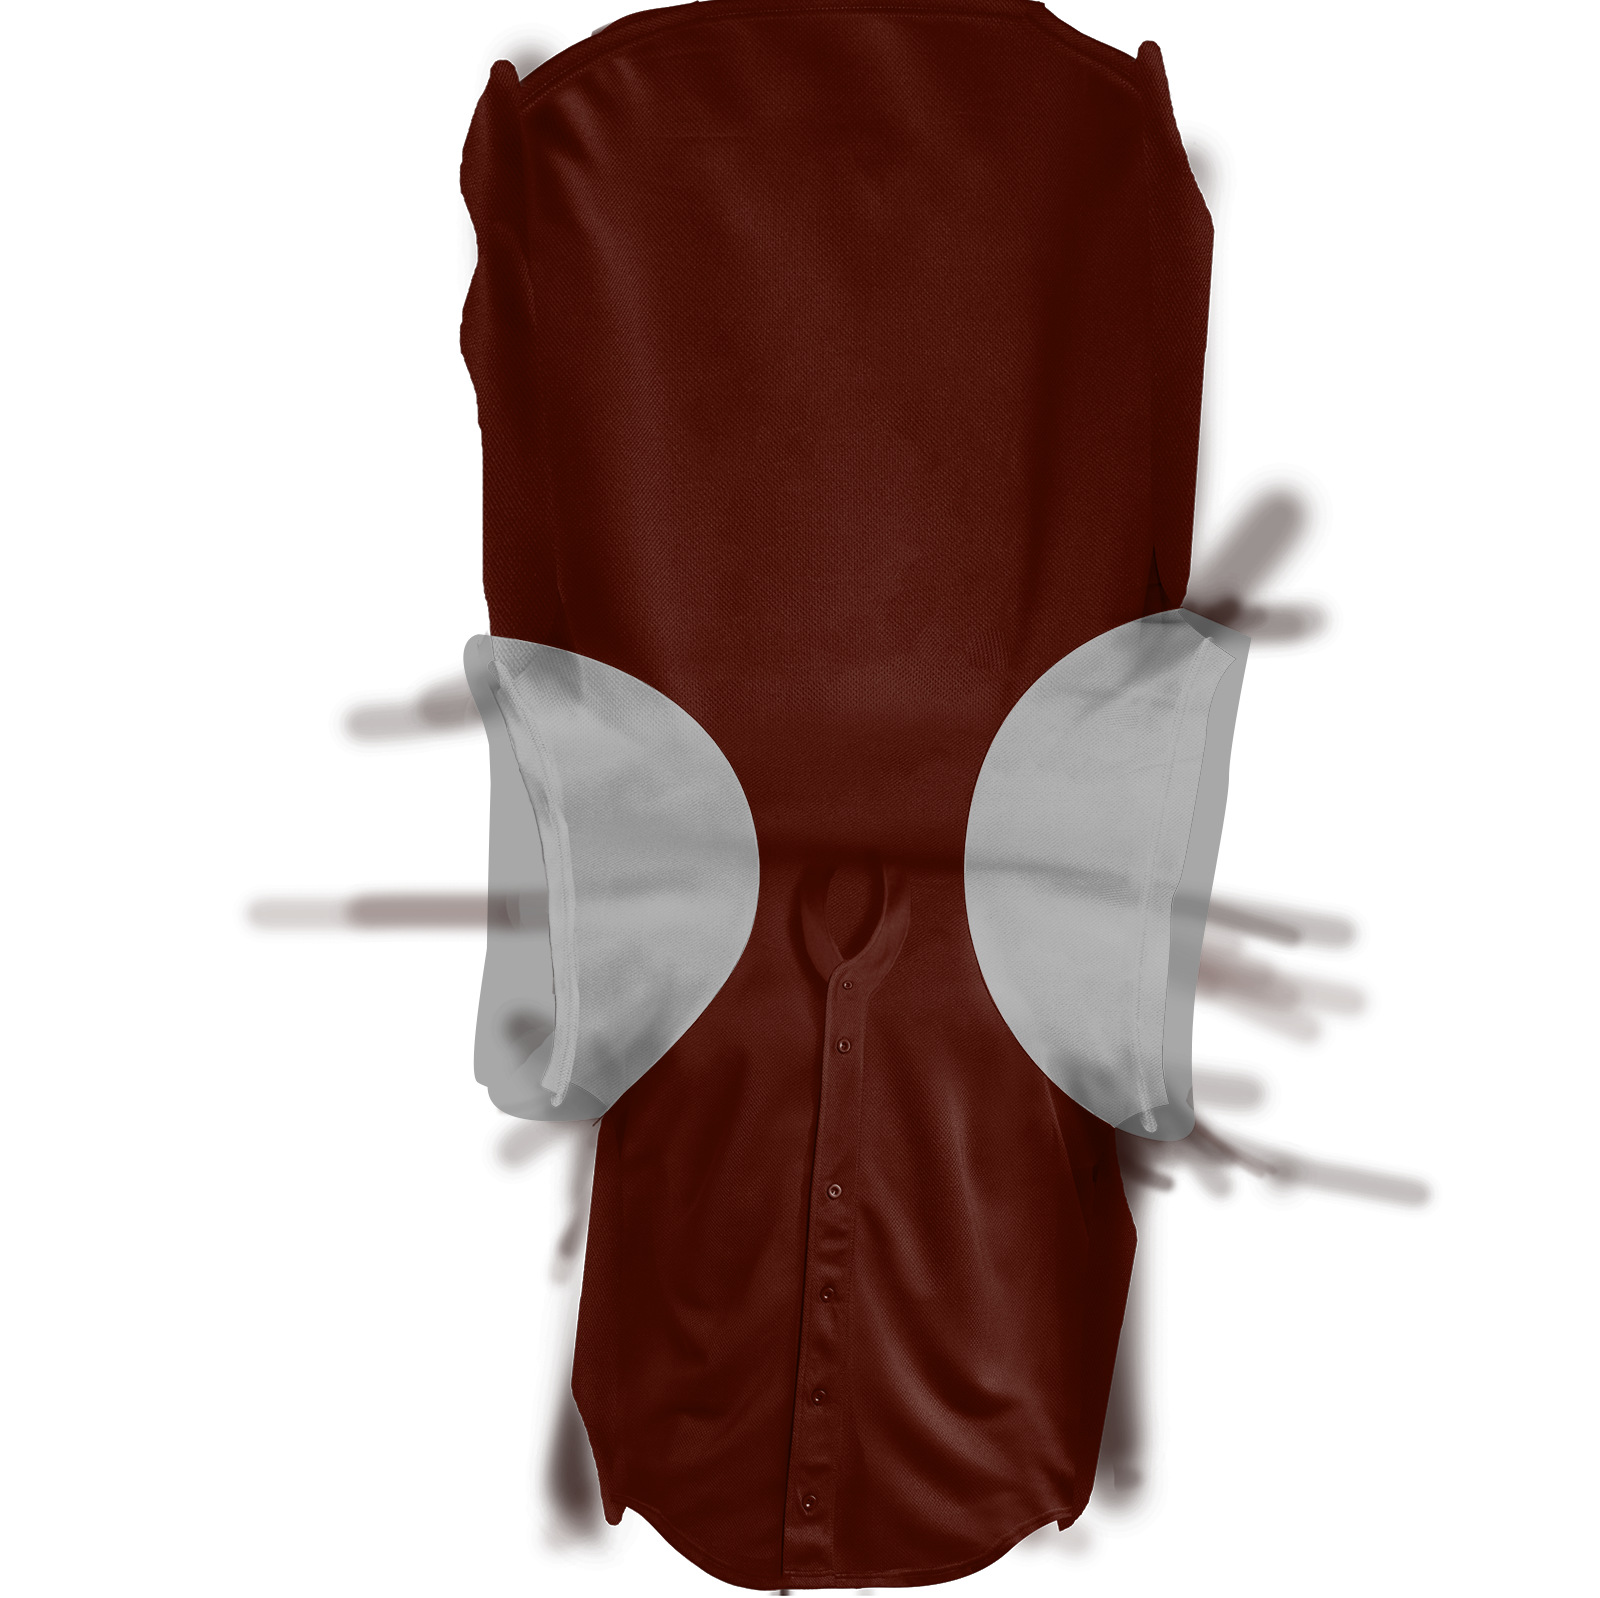
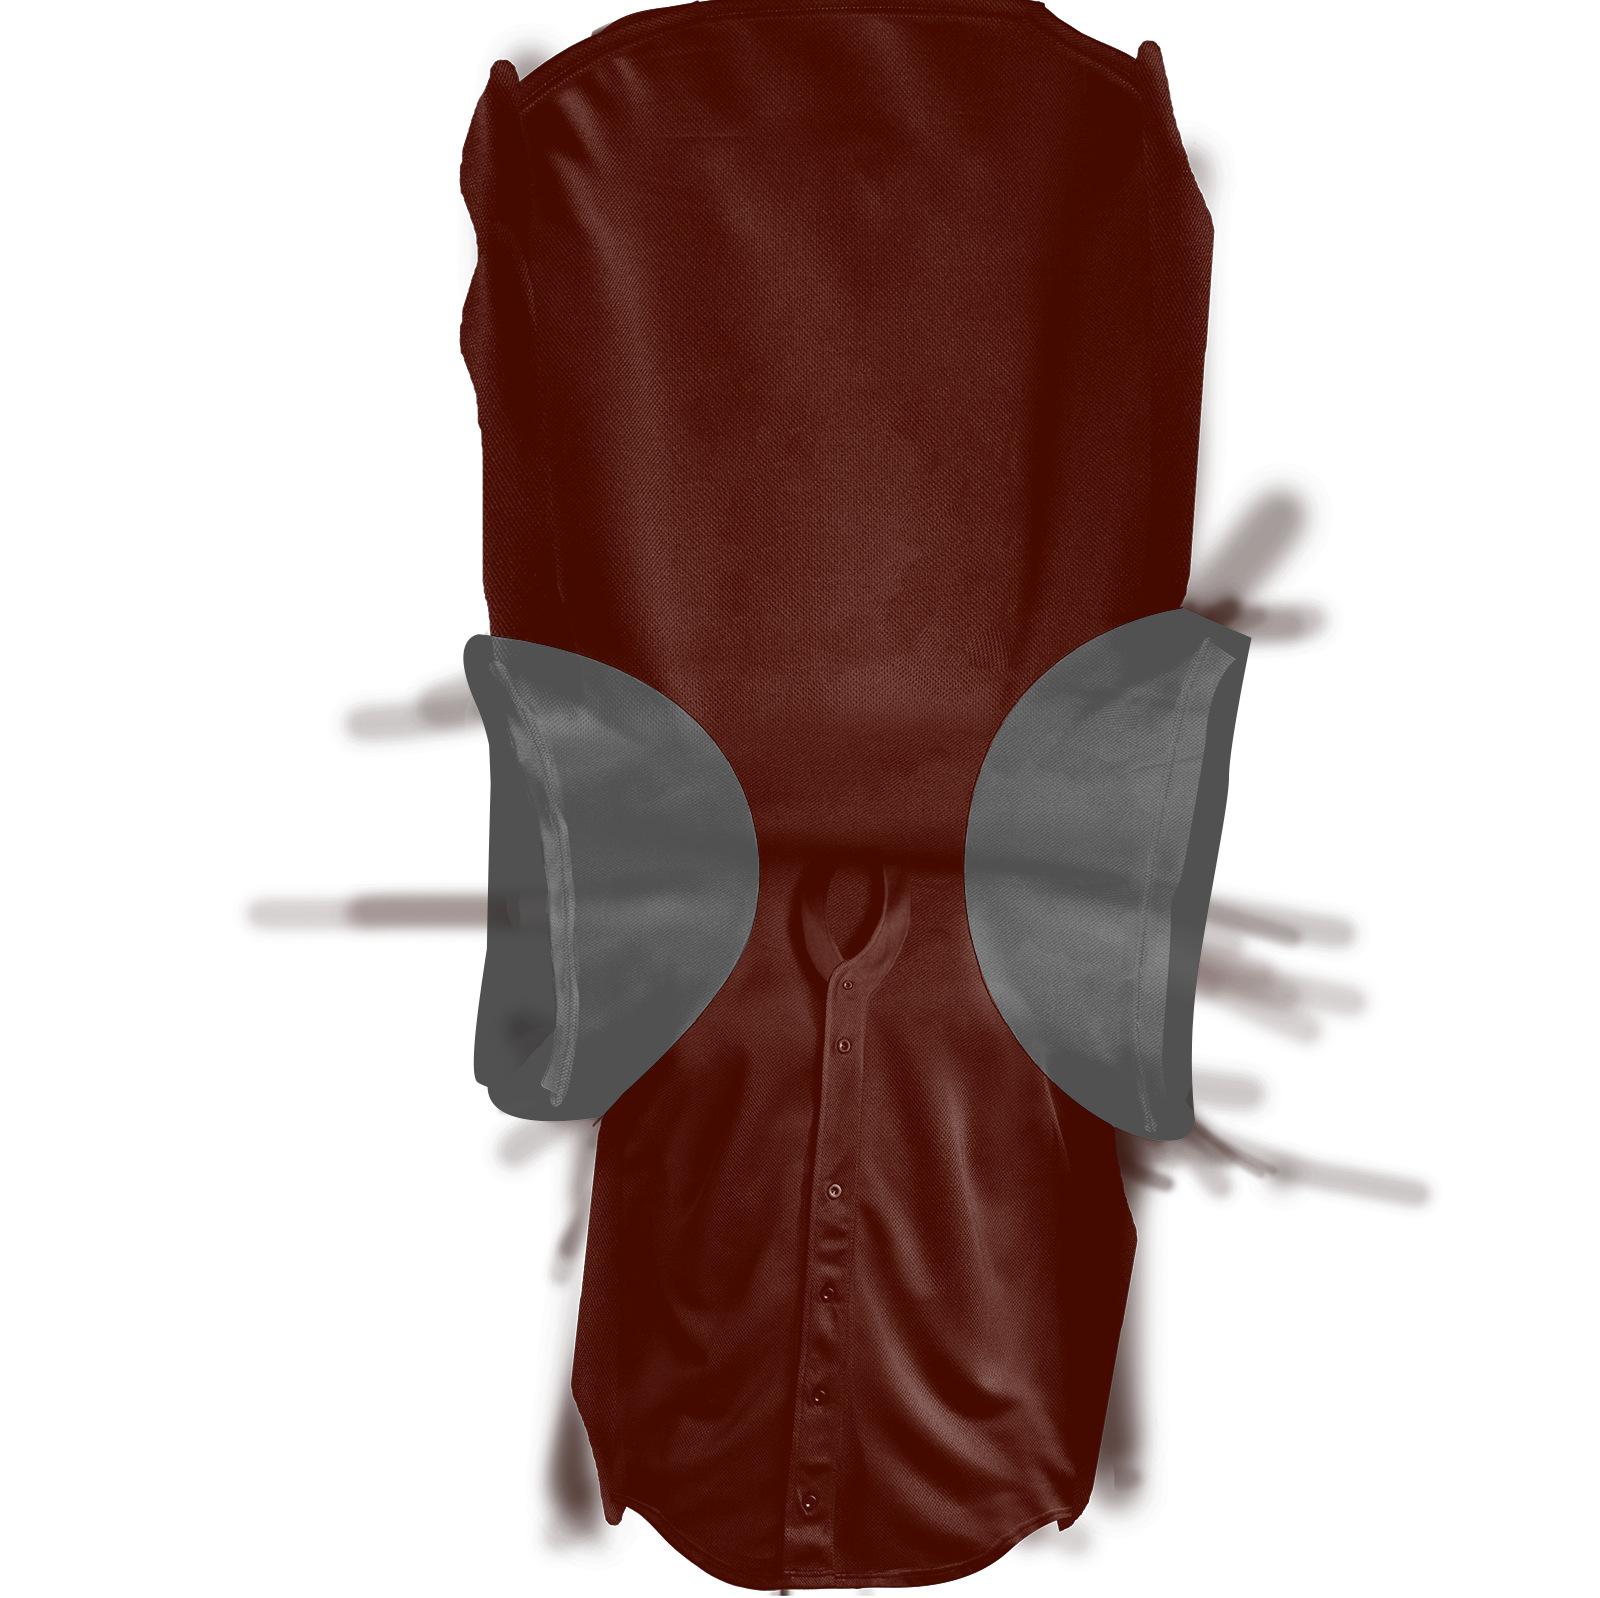
Cherry picked 9139066

diff --git a/public/js/texture_canvas.js b/public/js/texture_canvas.js
@@ -92,6 +92,7 @@
 
 			/// New With Path Group
 
+
 			var canvas = texture_canvas.canvas;
 			group = [];	       
 
@@ -102,9 +103,9 @@
 
 	            var loadedObjects = fabric.util.groupSVGElements(objects, options);
 
-	            console.log("Loaded Objects: ");
-	            console.log(loadedObjects);
-	            
+	            window.texture_canvas.objects[object_name] = loadedObjects;
+
+
 	            window.temp = loadedObjects;
 
 	            loadedObjects.set({
@@ -113,14 +114,12 @@
 	                top: 0,
 					lockMovementX: true,
 					lockMovementY: true,
-					scaleX: 3,
-					scaleY: 3,
+					opacity: 0.7,
 
 	            });
 
-				texture_canvas.refresh_model();
-
-			 	texture_canvas.canvas.remove(texture_canvas.objects[object_name]);
+	            loadedObjects.scaleX = 3;
+				loadedObjects.scaleY = 3;
 	            texture_canvas.canvas.add(loadedObjects);
 	            texture_canvas.canvas.renderAll();
 
@@ -190,6 +189,8 @@
 
 			});
 
+
+
 		}
 
 		texture_canvas.change_color = function (obj,color_value){
@@ -251,7 +252,6 @@
 			}
 
 			canvas = window.texture_canvas.canvas;
-			selectedObject.applyFilters(canvas.renderAll.bind(canvas));
 
 			setTimeout(function(){
 
@@ -260,6 +260,44 @@
 			}, 50);
 
 		}
+
+		texture_canvas.path_change_color = function (obj,color_value,layer){
+
+
+				texture_canvas.objects.jersey_rect.opacity = 0.0;
+				texture_canvas.objects.base.opacity = 0.0;
+
+				texture_canvas.objects.jersey_rect.fill = color_value;
+
+
+				texture_canvas.objects.c_1.opacity = 0.7;
+				texture_canvas.objects.c_2.opacity = 0.7;
+				texture_canvas.objects.c_3.opacity = 0.7;
+				texture_canvas.objects.c_4.opacity = 0.7;
+
+			selectedObject = window.texture_canvas.objects[layer];
+
+			for(i = 0; i <= selectedObject.paths.length -1; i++){
+
+
+				path = selectedObject.paths[i];
+				console.log(path);
+
+				path.setFill(color_value);
+
+			}
+
+			canvas = window.texture_canvas.canvas;
+			canvas.renderAll.bind(canvas);
+
+			setTimeout(function(){
+
+					texture_canvas.refresh_model();
+
+			}, 50);
+
+		}
+
 
 		/// End Methods
 
@@ -277,10 +315,64 @@
 		// texture_canvas.change_texture_svg('c_1', 'camouflage.svg');
 
 
-		texture_canvas.change_texture_svg('c_1', 'c_1.svg');
-		texture_canvas.change_texture_svg('c_2', 'c_2.svg');
-		texture_canvas.change_texture_svg('c_3', 'c_3.svg');
-		texture_canvas.change_texture_svg('c_4', 'c_4.svg');
+		// texture_canvas.change_texture_svg('c_1', 'c_1.svg');
+		// texture_canvas.change_texture_svg('c_2', 'c_2.svg');
+		// texture_canvas.change_texture_svg('c_3', 'c_3.svg');
+		// texture_canvas.change_texture_svg('c_4', 'c_4.svg');
+		// texture_canvas.change_texture('shadows', 'shadows.png');
+
+
+		$rect = new fabric.Rect({
+			  
+			        top: 0,
+			        left: 0,
+			        width: 1600,
+			        height: 1598,
+			        angle: 0,
+			        fill: '#ffffff',
+			        opacity: 0,
+
+		});
+
+		window.texture_canvas.canvas.add($rect);
+
+		texture_canvas.objects['jersey_rect'] = $rect;
+
+
+
+		setTimeout(function(){
+			texture_canvas.change_texture_svg('c_1', 'c_1.svg');
+		}, 50);
+
+		setTimeout(function(){
+			texture_canvas.change_texture_svg('c_2', 'c_2.svg');
+		}, 150);
+
+		setTimeout(function(){
+			texture_canvas.change_texture_svg('c_3', 'c_3.svg');
+		}, 200);
+
+		setTimeout(function(){		
+			texture_canvas.change_texture_svg('c_4', 'c_4.svg');
+		}, 250);
+
+		setTimeout(function(){
+			texture_canvas.change_texture('shadows', 'shadows_white.png');
+		}, 50);
+
+		setTimeout(function(){
+			texture_canvas.change_texture('mesh', 'mesh.png');
+		}, 50);
+		
+
+
+		texture_canvas.canvas.setBackgroundColor('rgba(183,176,159,255)', texture_canvas.canvas.renderAll.bind(canvas));
+
+		// texture_canvas.change_texture_svg('c_1', 'c_1.svg');
+		// texture_canvas.change_texture_svg('c_2', 'c_2.svg');
+		// texture_canvas.change_texture_svg('c_3', 'c_3.svg');
+		// texture_canvas.change_texture_svg('c_4', 'c_4.svg');
+		// texture_canvas.change_texture('shadows', 'shadows.png');
 
 		//texture_canvas.change_texture_svg('c_2', 'c_2.svg');
 		//texture_canvas.change_texture_svg('c_3', 'c_3.svg');
@@ -316,18 +408,31 @@
 
 			// 2
 			var base_loaded = typeof(texture_canvas.objects.base) !== 'undefined';
+
+			var c_1_loaded = typeof(texture_canvas.objects.c_1) !== 'undefined';
+			var c_2_loaded = typeof(texture_canvas.objects.c_2) !== 'undefined';
+			var c_3_loaded = typeof(texture_canvas.objects.c_3) !== 'undefined';
+			var c_4_loaded = typeof(texture_canvas.objects.c_4) !== 'undefined';
+			var shadows_loaded = typeof(texture_canvas.objects.shadows) !== 'undefined';
+			var mesh_loaded = typeof(texture_canvas.objects.mesh) !== 'undefined';
+
+
+			var jersey_rect_loaded = typeof(texture_canvas.objects.jersey_rect) !== 'undefined';
+
 		
-			if(base_loaded){
+			if(c_1_loaded && c_2_loaded && c_3_loaded && c_4_loaded && shadows_loaded && jersey_rect_loaded && mesh_loaded){
 
-				// texture_canvas.objects.base.moveTo('1');
-				
-				setTimeout(function(){
+				texture_canvas.objects.shadows.moveTo('1');
 
-					texture_canvas.refresh_model();
+				texture_canvas.objects.c_1.moveTo('2');
+				texture_canvas.objects.c_2.moveTo('3');
+				texture_canvas.objects.c_3.moveTo('4');
+				texture_canvas.objects.c_4.moveTo('5');
+				texture_canvas.objects.jersey_rect.moveTo(6);
+				texture_canvas.objects.mesh.moveTo(7);
 
-				}, 50);
-				
-
+				console.log('Loaded!!!!');
+			
 			}
 
 
@@ -335,11 +440,12 @@
 
 		canvas.on('mouse:up', function(options) {
 		
-				setTimeout(function(){
+			setTimeout(function(){
 
-					texture_canvas.refresh_model();
+				texture_canvas.refresh_model();
 
-				}, 50);
+
+			}, 50);
 
 		});
 

diff --git a/public/js/main.js b/public/js/main.js
@@ -32,25 +32,21 @@
 		var height = $(container).height();
 
 		window.UniformBuilder.scene = new THREE.Scene();
-
 		window.UniformBuilder.rotateY = 0;
-		
 		window.UniformBuilder.camera = new THREE.PerspectiveCamera( 100, width/height, 0.1, 1000 );
+
 		var v = 128;
 		//window.UniformBuilder.camera = new THREE.OrthographicCamera( width / - v, width / v, height / v, height / - v, 1, 500 );
 
 		window.UniformBuilder.renderer = new THREE.WebGLRenderer({ alpha: true, precision: 'highp', antialias: true, });
-		
 		window.UniformBuilder.renderer.setSize(width, height);
 
-		container.appendChild( window.UniformBuilder.renderer.domElement );
+		container.appendChild( window.UniformBuilder.renderer.domElement);
 
 		var pointLight = new THREE.PointLight( 0x8e8e8e, 2.1, 100 );
 		pointLight.position.set(1,1,2);
 		window.UniformBuilder.camera.add(pointLight);
-
 		window.UniformBuilder.scene.add(window.UniformBuilder.camera);
-
 		window.addEventListener('resize', function() {
 
 			container = document.getElementById('mycanvas');

diff --git a/resources/views/editor/index.blade.php b/resources/views/editor/index.blade.php
@@ -44,6 +44,8 @@
 
 		<br />
 
+		<!-- 
+
 		<div class="tab_button">
 			<button id="btn_free_form" class="btn-white btn btn-default btn-sm btn-tab"  onclick="switch_panel('#sleeve_panel')">Sl</button>	
 		</div>
@@ -51,7 +53,13 @@
 		<br />
 
 		<div class="tab_button">
-			<!-- <button id="btn_free_form" class="btn-white btn btn-default btn-sm btn-tab" onclick="switch_panel('#pants_panel')">Pn</button> -->
+			<button id="btn_free_form" class="btn-white btn btn-default btn-sm btn-tab" onclick="switch_panel('#pants_panel')">Pn</button>
+		</div>
+
+		-->
+
+		<div class="tab_button">
+			<button id="btn_free_form" class="btn-white btn btn-default btn-sm btn-tab" onclick="switch_panel('#pattern_panel')">Pt</button>
 		</div>
 
 		<hr />	
@@ -74,23 +82,29 @@
 
 					<h2>Jersey</h2>
 					<h4>Base Color</h4><br />
-					@include('partials.colors',['data_target' =>'jersey',])
+					@include('partials.colors',['data_target' =>'jersey', 'event_class' => 'change-color',])
 					<br />
 
+					<!--
+
 					<br /><h4>Piping Color</h4><br />
-					@include('partials.colors',['data_target' =>'pipings',])
+					@include('partials.colors',['data_target' =>'pipings', 'event_class' => 'change-color',])
+
+					-->
 
 					<br />
 
 					<br /><h4>Material Test (Base)</h4><br />
 					<button onclick="texture_canvas.change_texture('base','base.jpg')">Plain</button>
 					<button onclick="texture_canvas.change_texture('base','camouflage.jpg')">Camo</button>
-					<button onclick="texture_canvas.change_texture_svg('base','test.svg')">Digital Camo</button>
-
+					
+					<!-- 
 
 					<br /><h4>Material Test (Sleeve)</h4><br />
 					<button onclick="change_base('base.jpg')">Plain</button>
 					<button onclick="change_base('camouflage.jpg')">Camo</button>
+
+					-->
 
 
 					<br />
@@ -105,7 +119,7 @@
 
 					<h2>Sleeves</h2>
 					<h4>Base Color</h4><br />
-					@include('partials.colors',['data_target' =>'sleeves',])
+					@include('partials.colors',['data_target' =>'sleeves', 'event_class' => 'change-color',])
 
 					<hr />
 
@@ -117,17 +131,40 @@
 		
 					<h2>Pants</h2>
 					<h4>Base Color</h4><br />
-					@include('partials.colors',['data_target' =>'pants',])
+					@include('partials.colors',['data_target' =>'pants', 'event_class' => 'change-color',])
 
 					<br /><br /><h4>Piping Color</h4><br />
-					@include('partials.colors',['data_target' =>'pants_piping',])
+					@include('partials.colors',['data_target' =>'pants_piping', 'event_class' => 'change-color'])
 
 					<br /><br /><h4>Belt Color</h4><br />
-					@include('partials.colors',['data_target' =>'belt',])
+					@include('partials.colors',['data_target' =>'belt', 'event_class' => 'change-color'])
 
 					<br /><br /><h4>Pants Material Test</h4><br />
 					<button onclick="change_material('pants','7','7')">Plain</button>
 					<button onclick="change_material('pants','3','7')">Camo</button>
+
+					<hr />
+
+				</div>
+
+				<div class="option_panel" id="pattern_panel">
+
+					<h2>Pattern</h2>
+					<h4>Layer 1</h4><br />
+					@include('partials.colors', ['data_target' =>'pattern', 'event_class' => 'path-change-color','layer' => 'c_1'])
+					<br />
+
+					<h4>Layer 2</h4><br />
+					@include('partials.colors', ['data_target' =>'pattern', 'event_class' => 'path-change-color','layer' => 'c_2'])
+					<br />
+
+					<h4>Layer 3</h4><br />
+					@include('partials.colors', ['data_target' =>'pattern', 'event_class' => 'path-change-color', 'layer' => 'c_3'])
+					<br />
+
+					<h4>Layer 4</h4><br />
+					@include('partials.colors', ['data_target' =>'pattern', 'event_class' => 'path-change-color','layer' => 'c_4'])
+					<br />
 
 					<hr />
 
@@ -272,6 +309,15 @@
 			color = $(this).data('color');
 			// change_color(target, color);
 			texture_canvas.change_color(target,color)
+		});
+
+		// Path Change Color
+		$('.path-change-color').on('click', function(){
+			var target = $(this).data('target');
+			color = $(this).data('color');
+			layer = $(this).data('layer');
+			// change_color(target, color);
+			texture_canvas.path_change_color(target,color,layer);
 		});
 
 		// Change Material

diff --git a/resources/views/partials/colors.blade.php b/resources/views/partials/colors.blade.php
@@ -1,5 +1,8 @@
 @forelse ($colors as $color)
-	<button class='btn change-color' data-target='{{ $data_target }}' data-color='#{{ $color->hex_code }}' style='background-color: #{{ $color->hex_code }};' data-placement="bottom" title="{{ $color->name }}"></button>
+
+	
+
+	<button class='btn {{ $event_class }}' data-target='{{ $data_target }}' data-color='#{{ $color->hex_code }}' style='background-color: #{{ $color->hex_code }};' data-layer="{{{ isset($layer) ? $layer : 'none' }}}" data-placement="bottom" title="{{ $color->name }}"></button>
 @empty
 
 @endforelse

diff --git a/resources/views/partials/path_colors.blade.php b/resources/views/partials/path_colors.blade.php
@@ -1,0 +1,5 @@
+@forelse ($colors as $color)
+	<button class='btn {{ $event_class }}' data-target='{{ $data_target }}' data-color='#{{ $color->hex_code }}' style='background-color: #{{ $color->hex_code }};' data-placement="bottom" title="{{ $color->name }}"></button>
+@empty
+
+@endforelse
